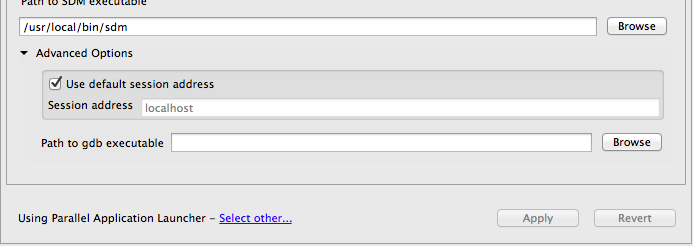
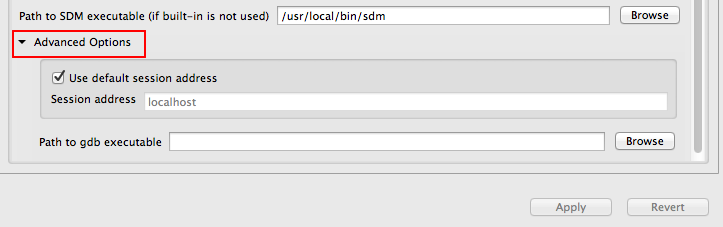
Bug 397588 update debugging help and screenshot

diff --git a/core/org.eclipse.ptp.doc.user/html/06parDebugging.html b/core/org.eclipse.ptp.doc.user/html/06parDebugging.html
@@ -41,8 +41,8 @@ Resources, Application, Arguments, Environment, Synchronize.
 </li>
 <li>If no debugger is visible in the <b>Debugger</b> drop-down,
 	select one. This is the debugger that will control the parallel debug
-	session. Currently only <b>SDM</b> is supported (SDM stands for
-	Scalable Debug Manager), so select this.
+	session. Currently only <b>SDM</b> (Scalable Debug Manager) is supported,
+	so select this.
 	<p><br></p>
 	</li>
 	<li>
@@ -55,8 +55,14 @@ Resources, Application, Arguments, Environment, Synchronize.
 	Under <b>Debugger Options</b>, make sure the <b>Debugger backend</b> is set to <code>gdb-mi</code>.
 	<p><br></p>
 	</li>
-	<li>Make sure that the <b>Path to SDM
-	executable</b> is correct for your target system.
+	<li>To use the built-in <b>SDM</b> in PTP, and have it copied to the remote
+	target and executed, leave <b>Use built-in SDM if available for the target platform</b> checked.
+	It uses the OS and architecture from the remote target to copy the correct SDM executable to the remote
+	system. 
+	<p><br></p>
+	<ul><li>
+	
+	<p>If instead you want to specify the path of the debugger, uncheck the <b>Use built-in SDM</b> box and  make sure that the <b>Path to SDM executable</b> is correct for your target system.
 	<p><br></p>
 	<p>If you are debugging on the local machine, this path should
 	point to the <code>sdm</code> executable in your Ecilpse installation's
@@ -72,6 +78,7 @@ Resources, Application, Arguments, Environment, Synchronize.
 	to where the <code>sdm</code> executable was installed on the remote
 	machine.</p>
 	<p><br></p>
+	</ul>
 	</li>
 	<li>
 	<p><b>(Optional) Advanced Options</b> are accessed by clicking on the twistie. The advanced options allow you to set the <b>Session address</b>
@@ -92,7 +99,7 @@ Resources, Application, Arguments, Environment, Synchronize.
 	<p>If you are launching onto a remote machine without using port
 	forwarding, then this should be the address of the local machine (the
 	one running Eclipse). <i>This address must be accessible from the
-	remote machine.</i>. If your local network configuration precludes the
+	remote machine</i>. If your local network configuration precludes the
 	remote machine accessing your local machine, you will need to
 	reconfigure the connection to use port forwarding.</p>
 	<p><br></p>
